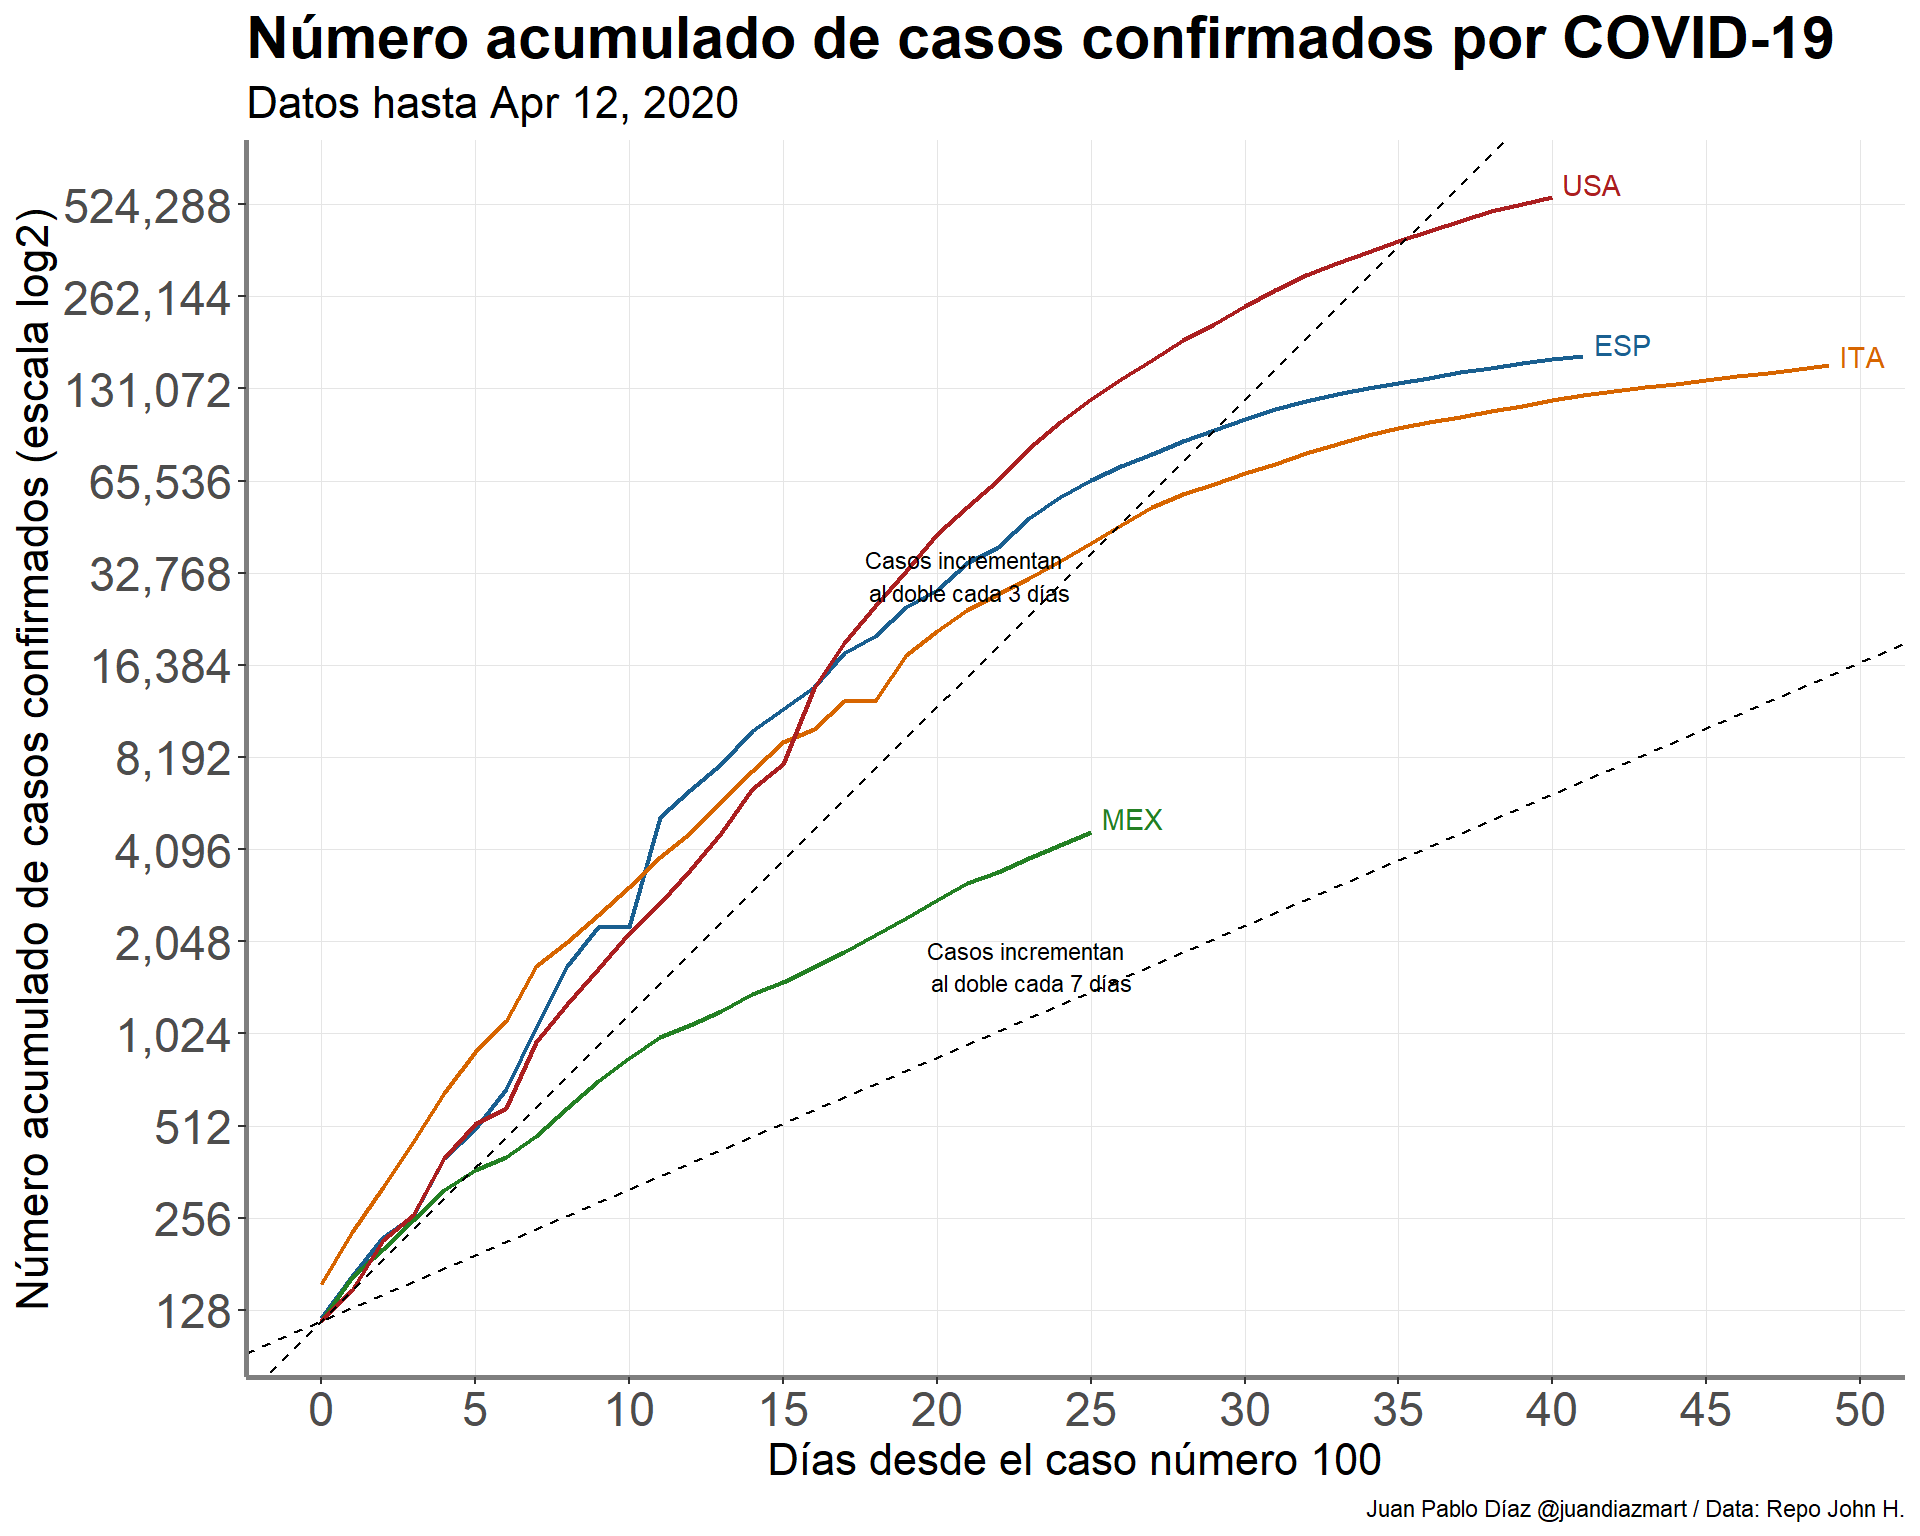
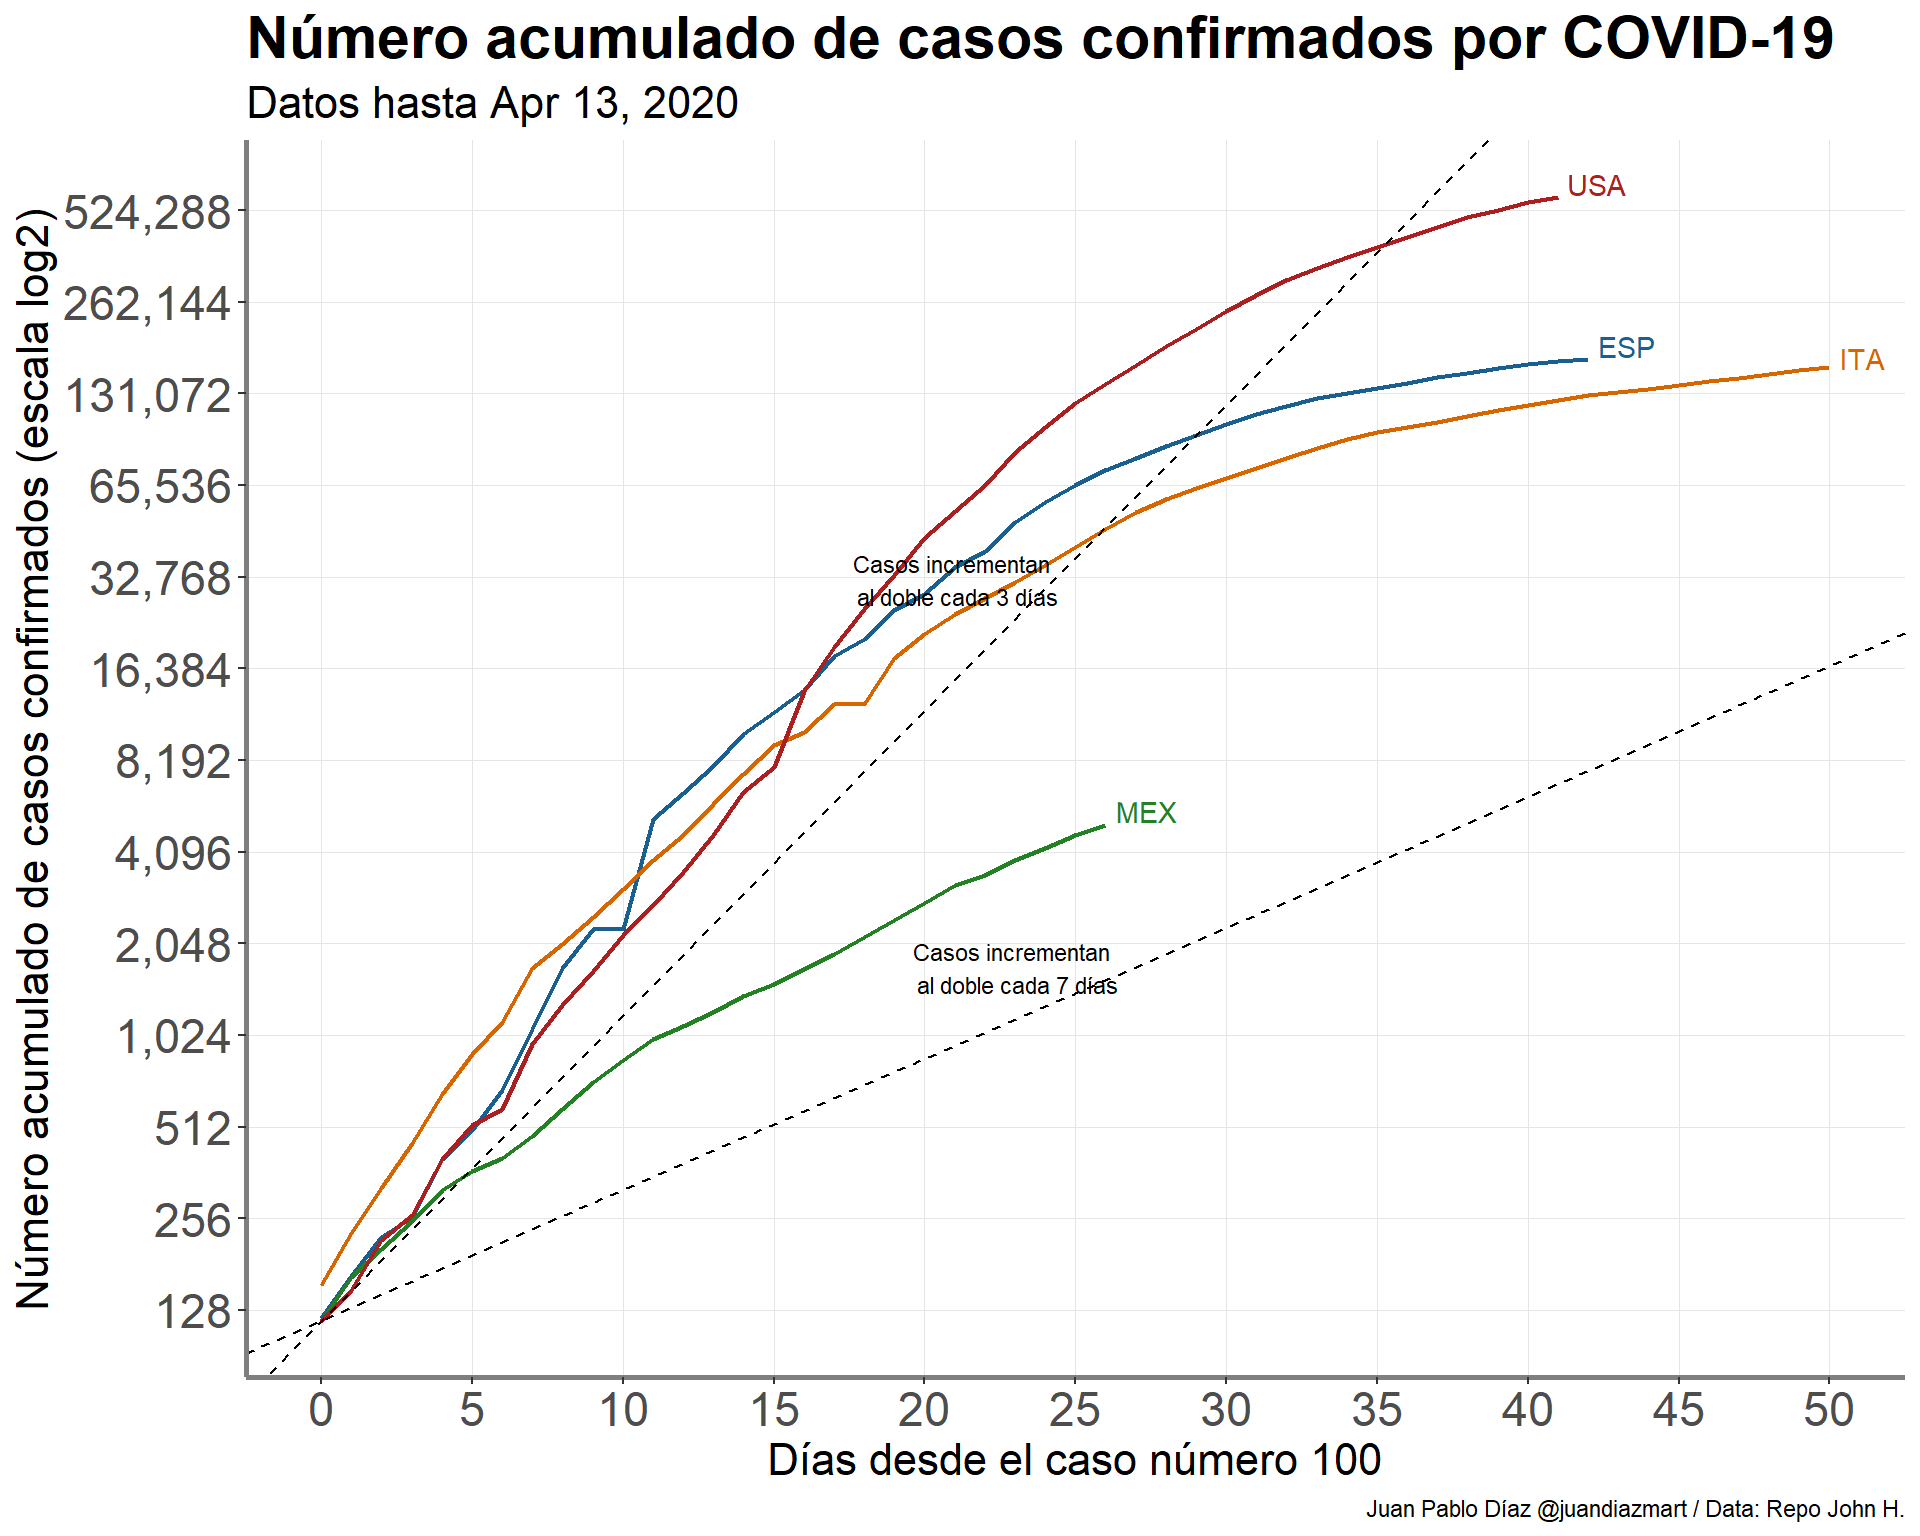
update

diff --git a/blog/mex/jp_def/Mexico_covid.html b/blog/mex/jp_def/Mexico_covid.html
@@ -1055,8 +1055,8 @@ Figure 1: Modelo de predicción
 <p><span class="math display">\[\alpha_{k}\sim Gamma(.5,1)\]</span> La distribución de <span class="math inline">\(R_0\)</span> fue asumida con base en la evidencia <a href="https://www.ncbi.nlm.nih.gov/pubmed/32097725">previa</a>:</p>
 <p><span class="math display">\[R_0\sim Normal(2.4,|\kappa|),\space \kappa\sim Normal(0,0.5)\]</span> Finalmente el modelo asume que las nuevas infecciones ocurren 30 días antes de que el país haya acumulado 10 muertes observadas.</p>
 <h2 id="resultados">Resultados</h2>
-<p>El modelo estima que para Apr 12, el número acumulado de infectados por SARS-COV2 en nuestro país es de 392,484 (95% CrI: 123,608 - 988,011) (ver Figura XX). Lo anterior representa al 0.31% (95% CrI: 0.10% - 0.78%).</p>
-<p>Al inicio de la epidemia en México, el número efectivo de reproducción <span class="math inline">\(R_t\)</span> era de 3.3 (95% CrI: 2.4 - 5.0). Después de que el gobierno implementó “Susana Distancia” el 23 de Marzo, éste descendió a 2.1 (95% CrI: 1.2 - 2.8)</p>
+<p>El modelo estima que para Apr 13, el número acumulado de infectados por SARS-COV2 en nuestro país es de 405,757 (95% CrI: 147,602 - 986,806) (ver Figura XX). Lo anterior representa al 0.32% (95% CrI: 0.12% - 0.78%).</p>
+<p>Al inicio de la epidemia en México, el número efectivo de reproducción <span class="math inline">\(R_t\)</span> era de 3.2 (95% CrI: 2.4 - 5.1). Después de que el gobierno implementó “Susana Distancia” el 23 de Marzo, éste descendió a 2.0 (95% CrI: 1.3 - 2.7)</p>
 <div class="layout-chunk" data-layout="l-body">
 <div class="figure"><span id="fig:unnamed-chunk-1"></span>
 <img src="Mexico_covid_files/figure-html5/unnamed-chunk-1-1.png" alt="Número acumulado de confirmados por COVID-19, observados y predichos" width="960" />
@@ -1073,7 +1073,7 @@ Figure 3: Efecto de las intervenciones en R[t]
 </p>
 </div>
 </div>
-<p>Una de las ventajas de este modelo es que nos permite hacer predicciones del número acumulado de muertes, utilizando <span class="math inline">\(R_t\)</span> estimado en Apr 12 y su contrafactual<a href="#fn8" class="footnote-ref" id="fnref8"><sup>8</sup></a> (<span class="math inline">\(R_t\)</span> al inicio de la epidemia en nuestro país);estas predicciones se muestran en la Figura XX.</p>
+<p>Una de las ventajas de este modelo es que nos permite hacer predicciones del número acumulado de muertes, utilizando <span class="math inline">\(R_t\)</span> estimado en Apr 13 y su contrafactual<a href="#fn8" class="footnote-ref" id="fnref8"><sup>8</sup></a> (<span class="math inline">\(R_t\)</span> al inicio de la epidemia en nuestro país);estas predicciones se muestran en la Figura XX.</p>
 <div class="layout-chunk" data-layout="l-body">
 <div class="figure"><span id="fig:unnamed-chunk-3"></span>
 <img src="Mexico_covid_files/figure-html5/unnamed-chunk-3-1.png" alt="Número acumulado de muertes por COVID-19, observados y predichos" width="960" />
